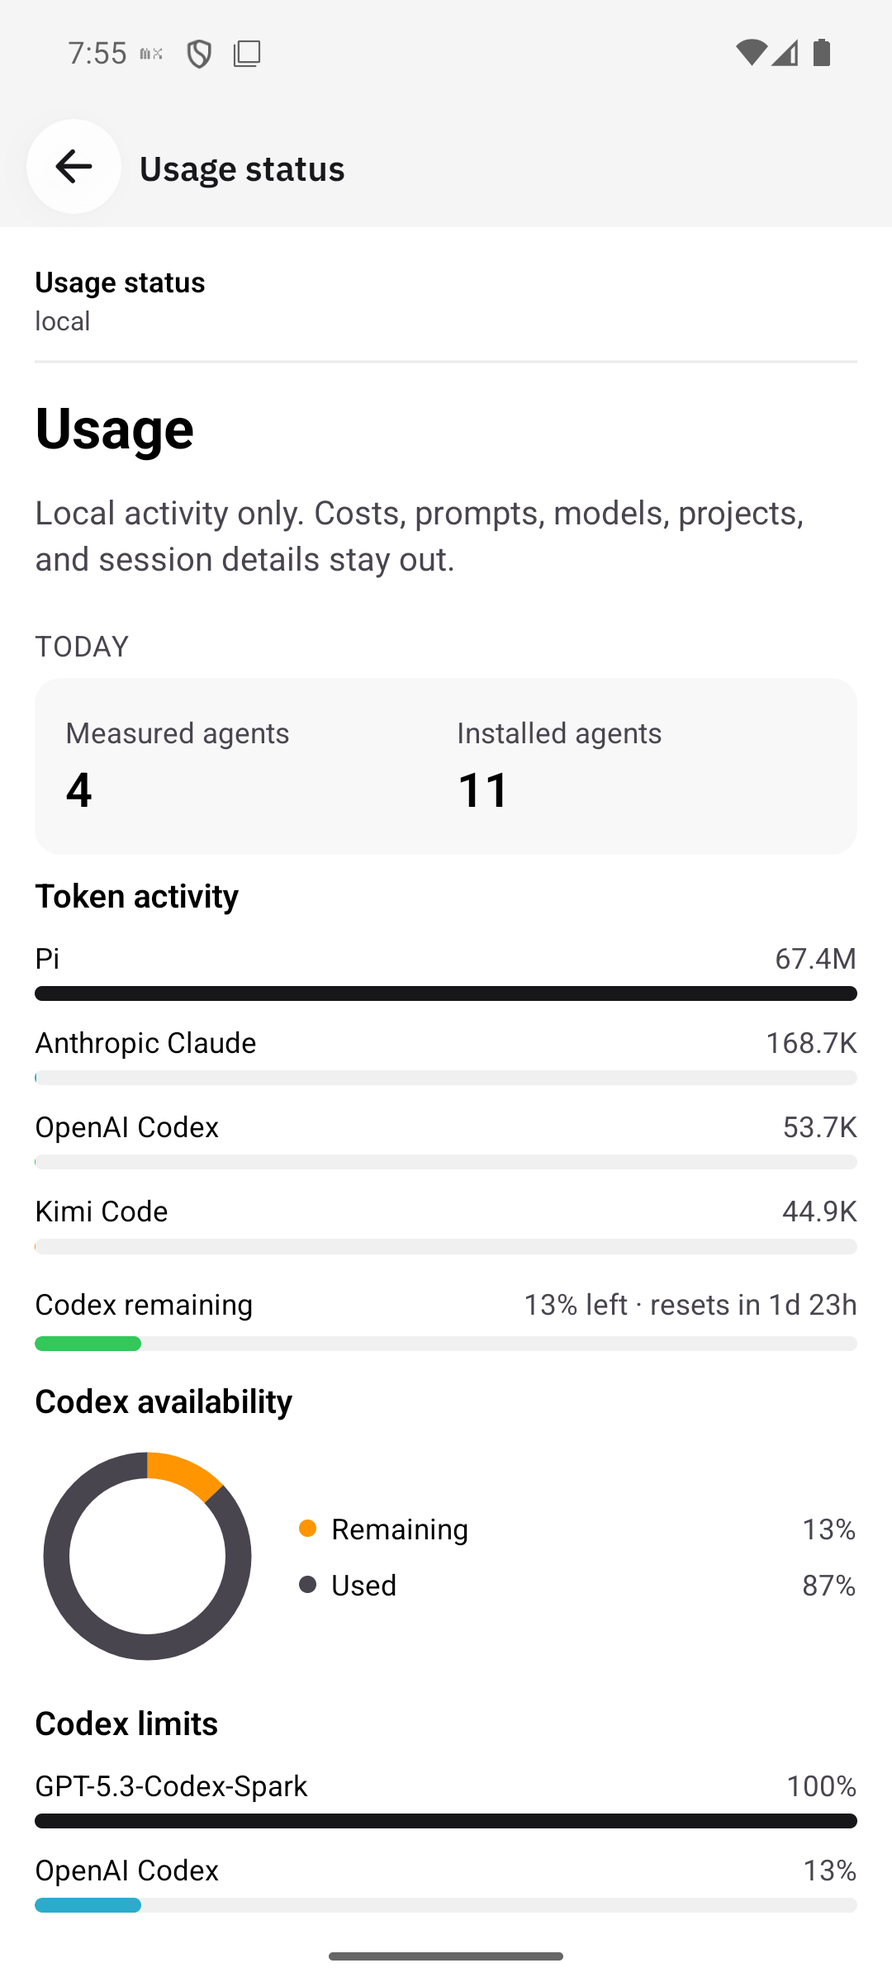
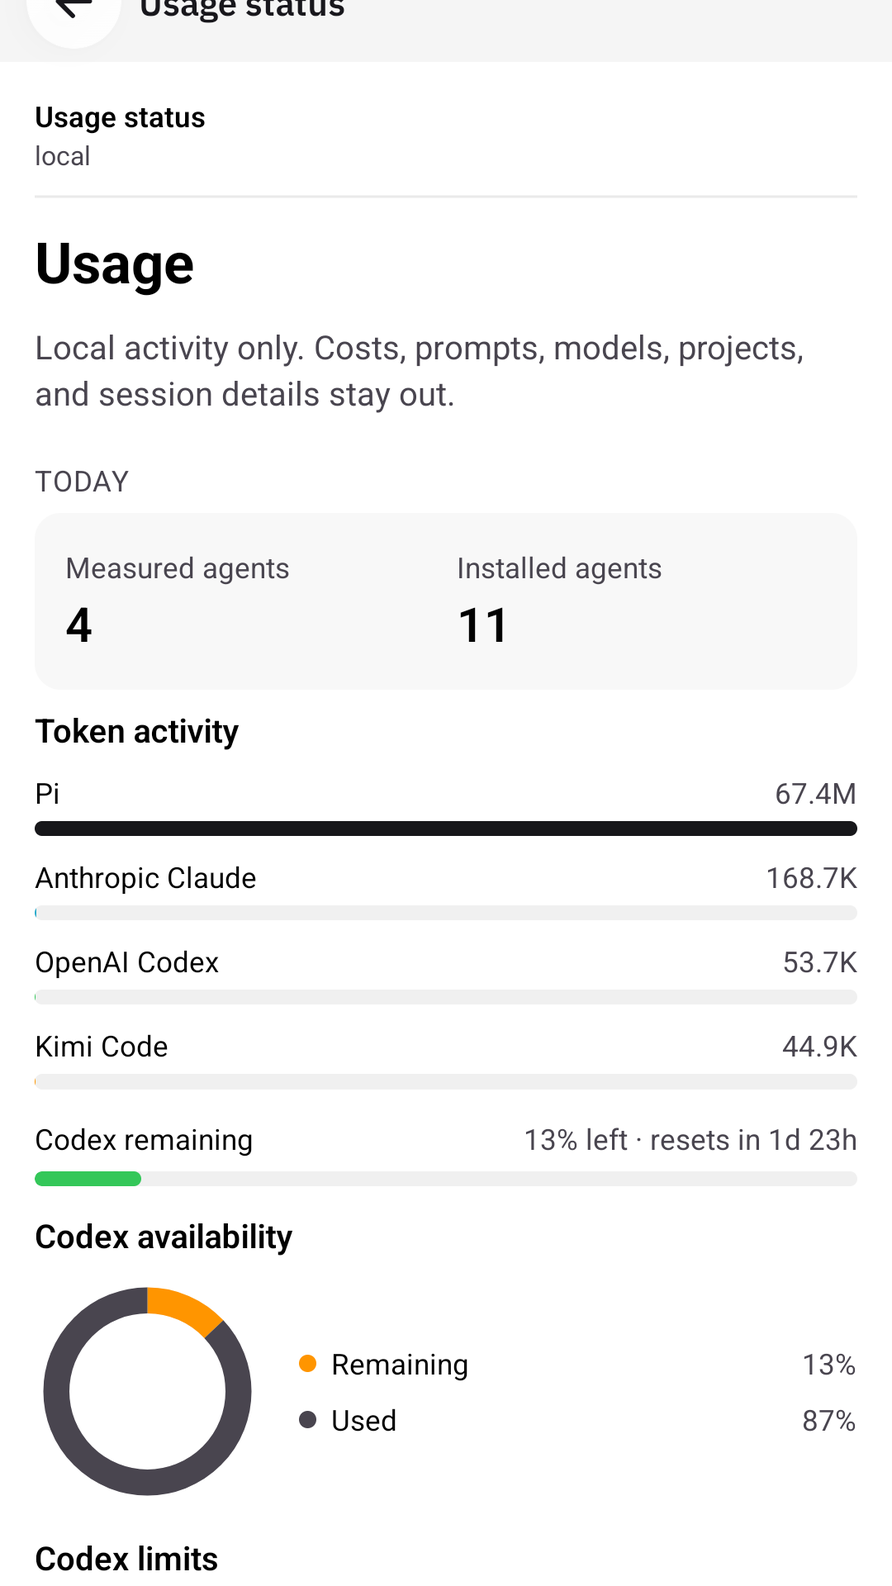
Polish pass: contrast, diff colors, motion, press feedback

diff --git a/apps/mobile/sources/terminal/TerminalScreen.tsx b/apps/mobile/sources/terminal/TerminalScreen.tsx
@@ -310,7 +310,7 @@ export const TerminalScreen = React.memo((props: { id: string }) => {
                     borderBottomColor: theme.colors.divider,
                 }}
             >
-                <Pressable onPress={() => router.back()} hitSlop={10} accessibilityRole="button" accessibilityLabel="Back" style={{ padding: 4 }}>
+                <Pressable onPress={() => router.back()} hitSlop={10} accessibilityRole="button" accessibilityLabel="Back" style={({ pressed }) => ({ padding: 4, opacity: pressed ? 0.6 : 1 })}>
                     <Ionicons name="chevron-back" size={20} color={theme.colors.text} />
                 </Pressable>
                 {(() => {
@@ -334,7 +334,7 @@ export const TerminalScreen = React.memo((props: { id: string }) => {
                 <View style={{ flex: 1 }} />
                 {/* Same sheet as the title pressable — hidden from screen readers. */}
                 {hasOverlay && (
-                    <Pressable onPress={() => setTreeOpen(true)} hitSlop={10} accessible={false} accessibilityElementsHidden importantForAccessibility="no" style={{ padding: 4 }}>
+                    <Pressable onPress={() => setTreeOpen(true)} hitSlop={10} accessible={false} accessibilityElementsHidden importantForAccessibility="no" style={({ pressed }) => ({ padding: 4, opacity: pressed ? 0.6 : 1 })}>
                         <Ionicons name="list" size={19} color={theme.colors.textSecondary} />
                     </Pressable>
                 )}
@@ -368,7 +368,7 @@ export const TerminalScreen = React.memo((props: { id: string }) => {
                         accessibilityRole="button"
                         accessibilityLabel="More actions"
                         accessibilityState={{ disabled: pluginActionBusy !== undefined }}
-                        style={{ padding: 4 }}
+                        style={({ pressed }) => ({ padding: 4, opacity: pressed ? 0.6 : 1 })}
                     >
                         {pluginActionBusy === undefined
                             ? <Ionicons name="ellipsis-vertical" size={19} color={theme.colors.textSecondary} />
@@ -376,7 +376,7 @@ export const TerminalScreen = React.memo((props: { id: string }) => {
                     </Pressable>
                 )}
                 {Platform.OS !== 'web' && (
-                    <Pressable onPress={stopSession} hitSlop={10} disabled={stopping} accessibilityRole="button" accessibilityLabel="Stop agent" accessibilityState={{ disabled: stopping }} style={{ padding: 4 }}>
+                    <Pressable onPress={stopSession} hitSlop={10} disabled={stopping} accessibilityRole="button" accessibilityLabel="Stop agent" accessibilityState={{ disabled: stopping }} style={({ pressed }) => ({ padding: 4, opacity: pressed ? 0.6 : 1 })}>
                         <Ionicons name="stop-circle-outline" size={19} color={theme.colors.textSecondary} />
                     </Pressable>
                 )}
@@ -498,7 +498,7 @@ export const TerminalScreen = React.memo((props: { id: string }) => {
                 horizontal
                 showsHorizontalScrollIndicator={false}
                 keyboardShouldPersistTaps="always"
-                style={{ maxHeight: 52, backgroundColor: theme.colors.surface }}
+                style={{ maxHeight: 56, backgroundColor: theme.colors.surface }}
                 contentContainerStyle={{ alignItems: 'center', gap: 6, paddingHorizontal: 8, paddingVertical: 6 }}
             >
                 {/* Pills lead: the key toolbar is wider than a phone, so anything
@@ -574,7 +574,7 @@ export const TerminalScreen = React.memo((props: { id: string }) => {
                     }}
                 />
                 <PluginSlot slot="session.composer.trailing" context={{ sessionId: props.id, getText: () => draftRef.current, setText: setDraft }} />
-                <Pressable onPress={sendPrompt} hitSlop={8} accessibilityRole="button" accessibilityLabel="Send" accessibilityState={{ disabled: !canSend }} style={{ opacity: canSend ? 1 : 0.4 }}>
+                <Pressable onPress={sendPrompt} hitSlop={8} disabled={!canSend} accessibilityRole="button" accessibilityLabel="Send" accessibilityState={{ disabled: !canSend }} style={{ opacity: canSend ? 1 : 0.4 }}>
                     <Ionicons name="arrow-up-circle" size={30} color={theme.colors.text} />
                 </Pressable>
             </View>
@@ -605,7 +605,7 @@ export const TerminalScreen = React.memo((props: { id: string }) => {
                                         setMenu(null);
                                         item.onPress();
                                     }}
-                                    style={{ paddingHorizontal: 16, paddingVertical: 12 }}
+                                    style={({ pressed }) => ({ paddingHorizontal: 16, paddingVertical: 12, opacity: pressed ? 0.6 : 1 })}
                                 >
                                     <Text style={{ color: theme.colors.text, fontSize: 15 }}>{item.label}</Text>
                                     {item.hint !== undefined && (

diff --git a/apps/mobile/sources/plugins/DeclarativePluginSlot.tsx b/apps/mobile/sources/plugins/DeclarativePluginSlot.tsx
@@ -21,8 +21,8 @@ import { t } from '@/text';
 function KeyRow({ contribution, channel }: { contribution: PluginTerminalKeyRow; channel?: TerminalChannel }) {
     const { theme } = useUnistyles();
     const [ctrl, setCtrl] = React.useState(false); const [shift, setShift] = React.useState(false);
-    const style = (selected = false) => ({ minWidth: 44, alignItems: 'center' as const, paddingHorizontal: 10, paddingVertical: 5, borderRadius: 6, backgroundColor: selected ? theme.colors.accent : theme.colors.surfaceHigh });
-    return <><Pressable onPress={() => setCtrl(!ctrl)} accessibilityRole="button" accessibilityLabel="Control" accessibilityState={{ selected: ctrl }} style={style(ctrl)}><Text style={{ color: ctrl ? '#fff' : theme.colors.text }}>ctrl</Text></Pressable><Pressable onPress={() => setShift(!shift)} accessibilityRole="button" accessibilityLabel="Shift" accessibilityState={{ selected: shift }} style={style(shift)}><Text style={{ color: shift ? '#fff' : theme.colors.text }}>shift</Text></Pressable>{contribution.keys.map((key) => <Pressable key={resolvePluginText(key.label)} accessibilityRole="button" accessibilityLabel={resolvePluginText(key.accessibilityLabel)} onPress={() => { channel?.sendText(ctrl && shift ? key.ctrlShift ?? key.ctrl ?? key.shift ?? key.send : ctrl ? key.ctrl ?? key.send : shift ? key.shift ?? key.send : key.send); setCtrl(false); setShift(false); }} style={style()}><Text style={{ color: theme.colors.text }}>{resolvePluginText(key.label)}</Text></Pressable>)}</>;
+    const style = (selected = false) => ({ minWidth: 44, minHeight: 40, justifyContent: 'center' as const, alignItems: 'center' as const, paddingHorizontal: 10, paddingVertical: 9, borderRadius: 6, backgroundColor: selected ? theme.colors.accent : theme.colors.surfaceHigh });
+    return <><Pressable onPress={() => setCtrl(!ctrl)} accessibilityRole="button" accessibilityLabel="Control" accessibilityState={{ selected: ctrl }} style={({ pressed }) => [style(ctrl), pressed && { opacity: 0.6 }]}><Text style={{ color: ctrl ? theme.colors.button.primary.tint : theme.colors.text }}>ctrl</Text></Pressable><Pressable onPress={() => setShift(!shift)} accessibilityRole="button" accessibilityLabel="Shift" accessibilityState={{ selected: shift }} style={({ pressed }) => [style(shift), pressed && { opacity: 0.6 }]}><Text style={{ color: shift ? theme.colors.button.primary.tint : theme.colors.text }}>shift</Text></Pressable>{contribution.keys.map((key) => <Pressable key={resolvePluginText(key.label)} accessibilityRole="button" accessibilityLabel={resolvePluginText(key.accessibilityLabel)} onPress={() => { channel?.sendText(ctrl && shift ? key.ctrlShift ?? key.ctrl ?? key.shift ?? key.send : ctrl ? key.ctrl ?? key.send : shift ? key.shift ?? key.send : key.send); setCtrl(false); setShift(false); }} style={({ pressed }) => [style(), pressed && { opacity: 0.6 }]}><Text style={{ color: theme.colors.text }}>{resolvePluginText(key.label)}</Text></Pressable>)}</>;
 }
 
 function useDataValue(pluginId: string, manifestHash: string, contributionId: string): { value?: string; failed: boolean; retry: () => void } {
@@ -105,7 +105,7 @@ function NavigationItemButton({ contribution, pluginId, manifestHash, active, on
         <View>
             <Ionicons name={contribution.icon as any} size={compact ? 15 : 24} color={active ? theme.colors.accent : theme.colors.textSecondary} />
             {badge !== undefined && <View accessibilityElementsHidden style={{ position: 'absolute', right: -13, top: -8, minWidth: 18, height: 18, paddingHorizontal: 4, borderRadius: 9, alignItems: 'center', justifyContent: 'center', backgroundColor: theme.colors.accent }}>
-                <Text style={{ color: '#fff', fontSize: 9, fontWeight: '700' }}>{badge}</Text>
+                <Text style={{ color: theme.colors.button.primary.tint, fontSize: 9, fontWeight: '700' }}>{badge}</Text>
             </View>}
         </View>
         <Text style={{ color: active ? theme.colors.accent : theme.colors.text, fontSize: compact ? 13 : 10, fontWeight: compact ? '600' : '400' }}>{label}</Text>

diff --git a/apps/mobile/sources/plugins/primitives/RealtimeSessionOverlay.tsx b/apps/mobile/sources/plugins/primitives/RealtimeSessionOverlay.tsx
@@ -10,9 +10,11 @@ import Animated, {
     useAnimatedStyle,
     useSharedValue,
     withSpring,
+    withTiming,
 } from 'react-native-reanimated';
 import { RealtimeConversation } from '@/realtime/RealtimeConversation';
 import { RealtimeSessionVisual } from '@/realtime/RealtimeSessionVisual';
+import { useUnistyles } from 'react-native-unistyles';
 import { mountPrimitive } from '../primitivePresence';
 import { t } from '@/text';
 import {
@@ -31,6 +33,7 @@ const MARGIN = 12;
 
 /** The floating conversation control, above every screen. */
 export const RealtimeSessionOverlay = React.memo(function RealtimeSessionOverlay() {
+    const { theme } = useUnistyles();
     const { state, detail } = useRealtimeSessionState();
     const safeArea = useSafeAreaInsets();
     React.useEffect(() => mountPrimitive('realtime-session-overlay'), []);
@@ -50,7 +53,6 @@ export const RealtimeSessionOverlay = React.memo(function RealtimeSessionOverlay
               ? t('plugins.realtimeError')
               : t('plugins.realtimeOff');
     const conversationVisible = useRealtimeConversationVisible();
-    const speaking = state === 'speaking';
 
     const window = Dimensions.get('window');
     const x = useSharedValue(window.width - WIDTH - MARGIN);
@@ -91,10 +93,15 @@ export const RealtimeSessionOverlay = React.memo(function RealtimeSessionOverlay
         [safeArea.bottom, safeArea.top, startX, startY, x, y],
     );
 
-    const tap = React.useMemo(() => Gesture.Tap().onEnd(openRealtimeConversation).runOnJS(true), []);
+    const press = useSharedValue(1);
+    const tap = React.useMemo(() => Gesture.Tap()
+        .onBegin(() => { press.value = withTiming(0.97, { duration: 80 }); })
+        .onFinalize(() => { press.value = withTiming(1, { duration: 160 }); })
+        .onEnd(openRealtimeConversation)
+        .runOnJS(true), [press]);
 
     const style = useAnimatedStyle(() => ({
-        transform: [{ translateX: x.value }, { translateY: y.value }],
+        transform: [{ translateX: x.value }, { translateY: y.value }, { scale: press.value }],
     }));
 
     if (!open && !conversationVisible && !failed) return null;
@@ -126,18 +133,18 @@ export const RealtimeSessionOverlay = React.memo(function RealtimeSessionOverlay
                                     paddingLeft: (HEIGHT - ORB_SIZE) / 2,
                                     paddingRight: 12,
                                     gap: 10,
-                                    backgroundColor: '#1c1d21',
+                                    backgroundColor: theme.colors.surfaceHigh,
                                     borderWidth: 1,
-                                    borderColor: muted ? 'rgba(190,95,108,0.32)' : 'rgba(255,255,255,0.10)',
+                                    borderColor: muted ? theme.colors.textDestructive : theme.colors.divider,
                                 },
                                 style,
                             ]}
                         >
                             <RealtimeSessionVisual size={ORB_SIZE} state={state} muted={muted} />
-                            <Text numberOfLines={1} style={{ flex: 1, color: '#f4f6fb', fontSize: 13, fontWeight: '600' }}>
-                                {state === 'connecting' ? `${t('plugins.realtimeConnecting')}…` : state === 'connected' ? `${t('plugins.realtimeListening')}…` : state === 'thinking' ? `${t('plugins.realtimeThinking')}…` : speaking ? `${t('plugins.realtimeSpeaking')}…` : failed ? t('plugins.realtimeError') : t('plugins.realtime')}
+                            <Text numberOfLines={1} style={{ flex: 1, color: theme.colors.text, fontSize: 13, fontWeight: '600' }}>
+                                {sessionLabel}…
                             </Text>
-                            <Ionicons name="chevron-up" size={16} color="#d8dce8" />
+                            <Ionicons name="chevron-up" size={16} color={theme.colors.textSecondary} />
                         </Animated.View>
                     </GestureDetector>
                 </View>

diff --git a/apps/mobile/sources/voice/VoiceWave.tsx b/apps/mobile/sources/voice/VoiceWave.tsx
@@ -1,6 +1,6 @@
 import * as React from 'react';
 import { View } from 'react-native';
-import Animated, { useAnimatedStyle, useSharedValue, withRepeat, withTiming } from 'react-native-reanimated';
+import Animated, { useAnimatedStyle, useReducedMotion, useSharedValue, withRepeat, withTiming } from 'react-native-reanimated';
 
 /** Uneven on purpose; evenly stepped bars read as a loading spinner. */
 const BARS = [0.45, 0.8, 1, 0.65, 0.9, 0.5, 0.75];
@@ -61,18 +61,21 @@ function Bar({
     color: string;
 }) {
     const level = useSharedValue(0.25);
+    const reduceMotion = useReducedMotion();
 
     React.useEffect(() => {
-        if (!active) {
-            level.value = withTiming(0.22, { duration: 220 });
+        if (!active || reduceMotion) {
+            level.value = withTiming(reduceMotion && active ? 0.6 : 0.22, { duration: 220 });
             return;
         }
         // Staggered so the bars never march in step, which looks mechanical.
         const duration = 300 + index * 45;
         level.value = withRepeat(withTiming(peak, { duration }), -1, true);
-    }, [active, index, level, peak]);
+    }, [active, index, level, peak, reduceMotion]);
 
-    const style = useAnimatedStyle(() => ({ height: Math.max(width, height * level.value) }));
+    // scaleY keeps the wave off the layout thread; a fixed height box means
+    // siblings never reflow while it moves.
+    const style = useAnimatedStyle(() => ({ transform: [{ scaleY: level.value }] }));
 
-    return <Animated.View style={[{ width, borderRadius: width / 2, backgroundColor: color }, style]} />;
+    return <Animated.View style={[{ width, height, borderRadius: width / 2, backgroundColor: color }, style]} />;
 }

diff --git a/apps/mobile/sources/plugins/DeclarativeScreen.tsx b/apps/mobile/sources/plugins/DeclarativeScreen.tsx
@@ -363,7 +363,7 @@ function ScreenNode(props: {
                                 return (
                                     <Pressable key={optionValue} onPress={() => set(optionValue)} accessibilityRole="button" accessibilityState={{ selected }}
                                         style={{ borderRadius: 999, paddingHorizontal: 12, paddingVertical: 6, backgroundColor: selected ? theme.colors.accent : theme.colors.surfaceHighest }}>
-                                        <Text style={{ color: selected ? '#fff' : theme.colors.text, fontSize: 14 }}>{resolvePluginText(option)}</Text>
+                                        <Text style={{ color: selected ? theme.colors.button.primary.tint : theme.colors.text, fontSize: 14 }}>{resolvePluginText(option)}</Text>
                                     </Pressable>
                                 );
                             })}
@@ -392,7 +392,7 @@ function ScreenNode(props: {
             const variantColor = node.variant === 'danger'
                 ? theme.colors.box.error.border
                 : node.variant === 'primary' ? theme.colors.accent : theme.colors.surfaceHighest;
-            const labelColor = node.variant === 'danger' || node.variant === 'primary' ? '#fff' : theme.colors.text;
+            const labelColor = node.variant === 'danger' ? '#fff' : node.variant === 'primary' ? theme.colors.button.primary.tint : theme.colors.text;
             return (
                 <Pressable
                     onPress={() => props.onButton(node)}

diff --git a/apps/mobile/sources/theme.ts b/apps/mobile/sources/theme.ts
@@ -171,12 +171,12 @@ export const lightTheme = {
             success: '#28A745',
             error: '#DC3545',
             // Traditional diff colors
-            addedBg: '#E6FFED',
+            addedBg: '#E6FFEC',
             addedBorder: '#34D058',
-            addedText: '#24292E',
-            removedBg: '#FFEEF0',
+            addedText: '#116329',
+            removedBg: '#FFEBE9',
             removedBorder: '#D73A49',
-            removedText: '#24292E',
+            removedText: '#82071E',
             contextBg: '#F6F8FA',
             contextText: '#586069',
             lineNumberBg: '#F6F8FA',
@@ -404,12 +404,12 @@ export const darkTheme = {
             success: '#3FB950',
             error: '#F85149',
             // Traditional diff colors for dark mode
-            addedBg: '#0D2E1F',
+            addedBg: '#12331F',
             addedBorder: '#3FB950',
-            addedText: '#C9D1D9',
-            removedBg: '#3F1B23',
+            addedText: '#7EE787',
+            removedBg: '#3A1D22',
             removedBorder: '#F85149',
-            removedText: '#C9D1D9',
+            removedText: '#FFA198',
             contextBg: '#161B22',
             contextText: '#8B949E',
             lineNumberBg: '#161B22',

diff --git a/apps/mobile/sources/plugins/primitives/DictateButton.tsx b/apps/mobile/sources/plugins/primitives/DictateButton.tsx
@@ -1,4 +1,5 @@
 import * as React from 'react';
+import { ActivityIndicator } from 'react-native';
 import { Ionicons } from '@expo/vector-icons';
 import { useUnistyles } from 'react-native-unistyles';
 import { BubblePressable } from '@/components/BubblePressable';
@@ -22,11 +23,13 @@ export function DictateButton({ context }: PrimitiveProps) {
             accessibilityLabel={t('plugins.dictate')}
             accessibilityState={{ busy: dictation.transcribing, selected: dictation.recording }}
         >
-            <Ionicons
-                name={dictation.recording ? 'stop-circle' : dictation.transcribing ? 'hourglass-outline' : 'mic-outline'}
-                size={22}
-                color={dictation.recording ? theme.colors.status.error : theme.colors.textSecondary}
-            />
+            {dictation.transcribing
+                ? <ActivityIndicator size="small" color={theme.colors.textSecondary} />
+                : <Ionicons
+                    name={dictation.recording ? 'stop-circle' : 'mic-outline'}
+                    size={22}
+                    color={dictation.recording ? theme.colors.status.error : theme.colors.textSecondary}
+                />}
         </BubblePressable>
     );
 }

diff --git a/apps/mobile/sources/app/(app)/settings/plugins.tsx b/apps/mobile/sources/app/(app)/settings/plugins.tsx
@@ -88,8 +88,8 @@ export default function PluginsScreen() {
                         return <Item
                             key={plugin.pluginId}
                             title={plugin.name}
-                            subtitle={[incompatibility ?? warning ?? plugin.description ?? describe(manifests[plugin.pluginId]), requestedContexts(manifests[plugin.pluginId]), trust].filter(Boolean).join(' · ')}
-                            detail={incompatibility === undefined && warning === undefined ? undefined : t('plugins.unavailableLabel')}
+                            subtitle={[incompatibility ?? warning ?? plugin.description ?? describe(manifests[plugin.pluginId]), requestedContexts(manifests[plugin.pluginId])].filter(Boolean).join(' · ')}
+                            detail={[incompatibility === undefined && warning === undefined ? undefined : t('plugins.unavailableLabel'), trust].filter(Boolean).join(' · ') || undefined}
                             showChevron={false}
                             rightElement={<Switch value={plugin.approved} onValueChange={(next) => void setApproved([plugin], next)} />}
                         />;

diff --git a/apps/mobile/sources/plugins/primitives/CapabilityButton.tsx b/apps/mobile/sources/plugins/primitives/CapabilityButton.tsx
@@ -32,7 +32,7 @@ export function CapabilityButton({ context, contribution, pluginId, manifestHash
         style={{ width: 42, height: 42, borderRadius: 21, alignItems: 'center', justifyContent: 'center', backgroundColor: active ? theme.colors.accent : theme.colors.surfaceHigh, opacity: available ? 1 : 0.4 }}
     >
         {connecting
-            ? <ActivityIndicator size="small" color={active ? '#fff' : theme.colors.textSecondary} />
-            : <Ionicons name={icon as never} size={22} color={active ? '#fff' : theme.colors.textSecondary} />}
+            ? <ActivityIndicator size="small" color={active ? theme.colors.button.primary.tint : theme.colors.textSecondary} />
+            : <Ionicons name={icon as never} size={22} color={active ? theme.colors.button.primary.tint : theme.colors.textSecondary} />}
     </Pressable>;
 }

diff --git a/apps/mobile/sources/plugins/primitives/ItemList.tsx b/apps/mobile/sources/plugins/primitives/ItemList.tsx
@@ -190,7 +190,7 @@ export function ItemList({ context, pluginId, manifestHash, contribution }: Prim
                     return item.action === undefined
                         ? <View key={item.id} accessible accessibilityLabel={label} style={styles.itemRow}>{content}</View>
                         : <Pressable key={item.id} onPress={() => void onAction(item.action, busyKey)} accessibilityRole="button" accessibilityLabel={label}
-                            accessibilityState={{ busy: busyId === busyKey }} style={styles.itemRow}>{content}</Pressable>;
+                            accessibilityState={{ busy: busyId === busyKey }} style={({ pressed }) => [styles.itemRow, pressed && { opacity: 0.6 }]}>{content}</Pressable>;
                 })}
             </View>
         } />

diff --git a/apps/mobile/sources/components/diff/PierreDiffView.tsx b/apps/mobile/sources/components/diff/PierreDiffView.tsx
@@ -372,7 +372,7 @@ function PlainPatchView({
                         }}
                     >
                         {isPatchCodeLine(line)
-                            ? <><Text style={{ color: fg }}>{first}</Text><SyntaxSpans spans={i < highlighted.length - 1 ? highlighted[i]! : [{ text: line.slice(1) }]} theme={theme} fallbackColor={fg} /></>
+                            ? <><Text style={{ color: first === '+' ? colors.success : first === '-' ? colors.error : fg, fontWeight: '600' }}>{first}</Text><SyntaxSpans spans={i < highlighted.length - 1 ? highlighted[i]! : [{ text: line.slice(1) }]} theme={theme} fallbackColor={fg} /></>
                             : (line.length === 0 ? ' ' : line)}
                     </Text>
                 );

diff --git a/apps/mobile/sources/components/diff/DiffView.tsx b/apps/mobile/sources/components/diff/DiffView.tsx
@@ -176,7 +176,7 @@ export const DiffView: React.FC<DiffViewProps> = ({
                             }}
                         >
                             {showPlusMinusSymbols && (
-                                <Text style={{ color: textColor }}>
+                                <Text style={{ color: isAdded ? theme.colors.diff.success : isRemoved ? theme.colors.diff.error : textColor, fontWeight: isAdded || isRemoved ? '600' : 'normal' }}>
                                     {`${isAdded ? '+' : isRemoved ? '-' : ' '} `}
                                 </Text>
                             )}
